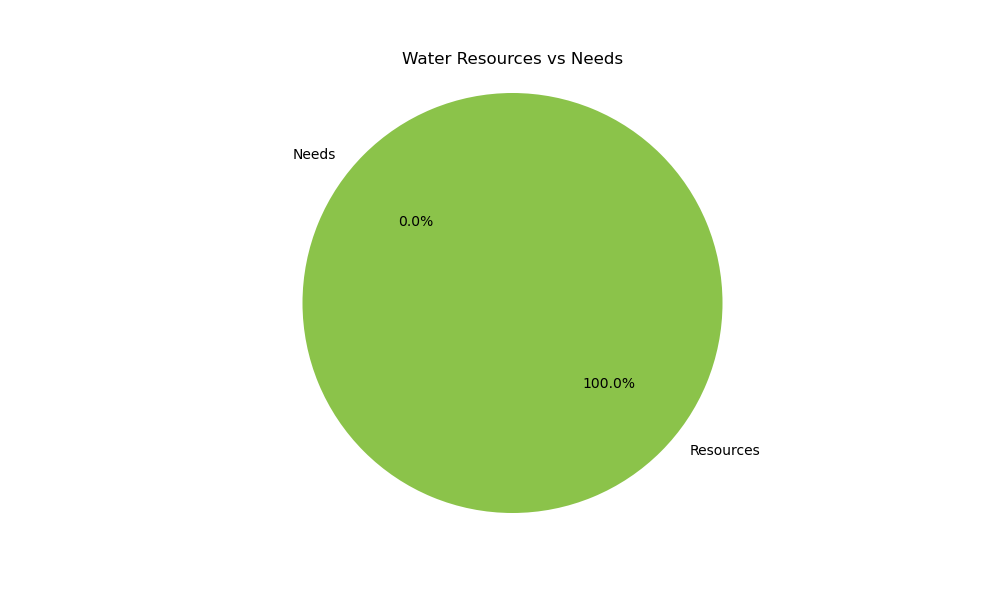
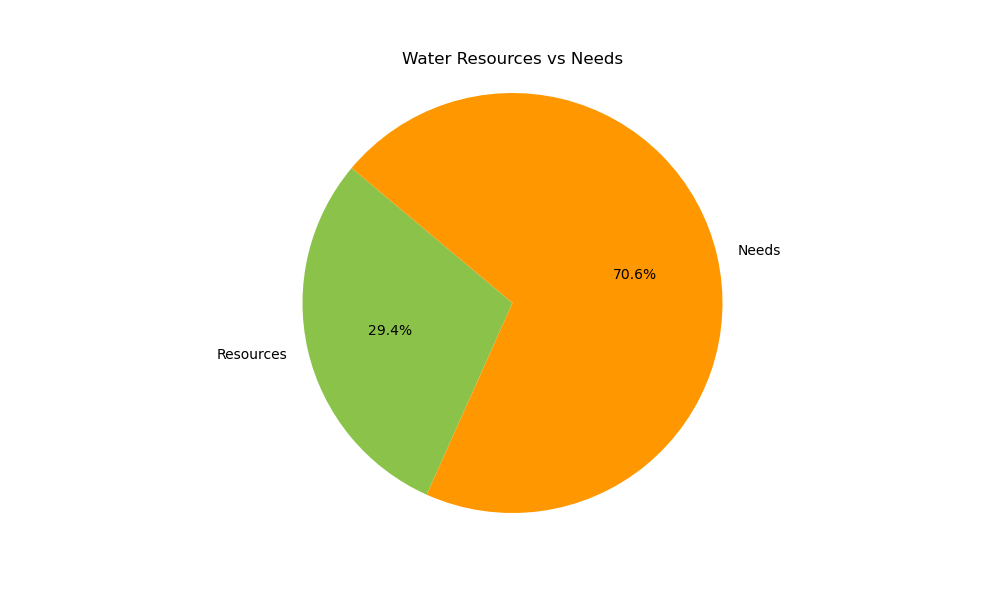
Corrections des bugs de liaison entre fichiers

Changed region(s): [[0.279, 0.15, 0.775, 0.87], [0.217, 0.57, 0.279, 0.6], [0.372, 0.54, 0.403, 0.57]]

diff --git a/input_form.py b/input_form.py
@@ -14,9 +14,7 @@ class InputForm(QtWidgets.QWidget):
         self.initUI()
 
     def initUI(self):
-        
-        
-        
+
         # Lier la feuille de style CSS
         self.setStyleSheet(open("styles.css").read())
 
@@ -25,199 +23,194 @@ class InputForm(QtWidgets.QWidget):
         scroll_content = QtWidgets.QWidget()
         scroll_layout = QtWidgets.QVBoxLayout(scroll_content)
 
-
-
         # Thème: Paramètres habitation
         self.habitat_section = QtWidgets.QGroupBox("Paramètres habitation")
         self.habitat_layout = QtWidgets.QVBoxLayout()
-        self.habitat_layout.setSpacing(5)        
+        self.habitat_layout.setSpacing(5)
 
-        
-        self.nb_habitat = QtWidgets.QSpinBox()
-        self.nb_habitat.setRange(0, 2147483647)
-        self.nb_habitat.setValue(0)
+        self.nb_habitants = QtWidgets.QSpinBox()
+        self.nb_habitants.setRange(0, 2147483647)
+        self.nb_habitants.setValue(0)
         self.habitat_layout.addWidget(QtWidgets.QLabel("Nombre d'habitant :"))
-        self.habitat_layout.addWidget(self.nb_habitat)
-        
+        self.habitat_layout.addWidget(self.nb_habitants)
+
+        self.surf_toit = QtWidgets.QSpinBox()
+        self.surf_toit.setRange(0, 2147483647)
+        self.surf_toit.setValue(0)
+        self.habitat_layout.addWidget(QtWidgets.QLabel("Surface de toit :"))
+        self.habitat_layout.addWidget(self.surf_toit)
+
+        self.nb_toilettes = QtWidgets.QSpinBox()
+        self.nb_toilettes.setRange(0, 2147483647)
+        self.nb_toilettes.setValue(0)
+        self.habitat_layout.addWidget(QtWidgets.QLabel("Nombre de toilettes :"))
+        self.habitat_layout.addWidget(self.nb_toilettes)
+
+        self.location = QtWidgets.QComboBox()
+        self.habitat_layout.addWidget(QtWidgets.QLabel("Implantation géographique:"))
+        self.habitat_layout.addWidget(self.location)
+        self.fill_city_dropdown()
+
         self.conso_hab = QtWidgets.QSpinBox()
-        self.conso_hab.setRange(0,2147483647)
+        self.conso_hab.setRange(0, 2147483647)
         self.conso_hab.setValue(120)
         self.habitat_layout.addWidget(QtWidgets.QLabel("Consommation en eau potable par habitant (L/jour) :"))
         self.habitat_layout.addWidget(self.conso_hab)
-
 
         self.habitat_section.setLayout(self.habitat_layout)
         scroll_layout.addWidget(self.habitat_section)
         scroll_layout.addSpacing(20)
 
-
-
-
-
         # Thème: Répartition consommation
         self.conso_section = QtWidgets.QGroupBox("Répartition de la consommation en eau des habitants")
         self.conso_layout = QtWidgets.QVBoxLayout()
         self.conso_layout.setSpacing(5)
-        
-        
+
         self.conso_hyg = QtWidgets.QSpinBox()
-        self.conso_hyg.setRange(0,2147483647)
+        self.conso_hyg.setRange(0, 2147483647)
         self.conso_hyg.setValue(40)
         self.conso_layout.addWidget(QtWidgets.QLabel("Hygiène (%) :"))
         self.conso_layout.addWidget(self.conso_hyg)
-        
+
         self.conso_vet = QtWidgets.QSpinBox()
-        self.conso_vet.setRange(0,2147483647)
+        self.conso_vet.setRange(0, 2147483647)
         self.conso_vet.setValue(15)
         self.conso_layout.addWidget(QtWidgets.QLabel("Lavage de vêtements (%) :"))
         self.conso_layout.addWidget(self.conso_vet)
-        
+
         self.conso_exc = QtWidgets.QSpinBox()
-        self.conso_exc.setRange(0,2147483647)
+        self.conso_exc.setRange(0, 2147483647)
         self.conso_exc.setValue(20)
         self.conso_layout.addWidget(QtWidgets.QLabel("Évacuation des excrétats (%) :"))
         self.conso_layout.addWidget(self.conso_exc)
-        
+
         self.conso_alim = QtWidgets.QSpinBox()
-        self.conso_alim.setRange(0,2147483647)
+        self.conso_alim.setRange(0, 2147483647)
         self.conso_alim.setValue(10)
         self.conso_layout.addWidget(QtWidgets.QLabel("Alimentation (%) :"))
         self.conso_layout.addWidget(self.conso_alim)
-        
+
         self.conso_vai = QtWidgets.QSpinBox()
-        self.conso_vai.setRange(0,2147483647)
+        self.conso_vai.setRange(0, 2147483647)
         self.conso_vai.setValue(5)
         self.conso_layout.addWidget(QtWidgets.QLabel("Lavage de la vaisselle (%) :"))
         self.conso_layout.addWidget(self.conso_vai)
-        
+
         self.conso_net = QtWidgets.QSpinBox()
-        self.conso_net.setRange(0,2147483647)
+        self.conso_net.setRange(0, 2147483647)
         self.conso_net.setValue(10)
         self.conso_layout.addWidget(QtWidgets.QLabel("Nettoyage et autres usages (%) :"))
         self.conso_layout.addWidget(self.conso_net)
-        
-        
+
         self.conso_section.setLayout(self.conso_layout)
         scroll_layout.addWidget(self.conso_section)
         scroll_layout.addSpacing(20)
 
-
-
-
-
         # Thème: Paramètres travail
         self.travail_section = QtWidgets.QGroupBox("Paramètres travail")
         self.travail_layout = QtWidgets.QVBoxLayout()
-        self.travail_layout.setSpacing(5)        
-        
+        self.travail_layout.setSpacing(5)
+
         self.nb_travail = QtWidgets.QSpinBox()
         self.nb_travail.setRange(0, 2147483647)
         self.nb_travail.setValue(0)
         self.travail_layout.addWidget(QtWidgets.QLabel("Nombre de travailleurs :"))
         self.travail_layout.addWidget(self.nb_travail)
-        
+
         self.conso_travail = QtWidgets.QSpinBox()
         self.conso_travail.setRange(0, 2147483647)
         self.conso_travail.setValue(47)
         self.travail_layout.addWidget(QtWidgets.QLabel("Consommation en eau potable par travailleur (L/jour) :"))
         self.travail_layout.addWidget(self.conso_travail)
-        
+
         self.travail_section.setLayout(self.travail_layout)
         scroll_layout.addWidget(self.travail_section)
         scroll_layout.addSpacing(20)
-        
+
         # Thème: Répartition consommation
         self.conso_section = QtWidgets.QGroupBox("Répartition de la consommation en eau des travailleurs :")
         self.conso_layout = QtWidgets.QVBoxLayout()
         self.conso_layout.setSpacing(5)
-        
+
         self.conso_hyg_travail = QtWidgets.QSpinBox()
         self.conso_hyg_travail.setRange(0, 2147483647)
         self.conso_hyg_travail.setValue(30)
         self.conso_layout.addWidget(QtWidgets.QLabel("Hygiène (%) :"))
         self.conso_layout.addWidget(self.conso_hyg_travail)
-        
+
         self.conso_exc_travail = QtWidgets.QSpinBox()
         self.conso_exc_travail.setRange(0, 2147483647)
         self.conso_exc_travail.setValue(30)
         self.conso_layout.addWidget(QtWidgets.QLabel("Évacuation des excrétats (%) :"))
         self.conso_layout.addWidget(self.conso_exc_travail)
-        
+
         self.conso_alim_travail = QtWidgets.QSpinBox()
         self.conso_alim_travail.setRange(0, 2147483647)
         self.conso_alim_travail.setValue(10)
         self.conso_layout.addWidget(QtWidgets.QLabel("Consommation directe (%) :"))
         self.conso_layout.addWidget(self.conso_alim_travail)
-        
+
         self.conso_net_travail = QtWidgets.QSpinBox()
         self.conso_net_travail.setRange(0, 2147483647)
         self.conso_net_travail.setValue(30)
         self.conso_layout.addWidget(QtWidgets.QLabel("Nettoyage des locaux, des équipements et autres usages (%) :"))
         self.conso_layout.addWidget(self.conso_net_travail)
-        
+
         self.conso_section.setLayout(self.conso_layout)
         scroll_layout.addWidget(self.conso_section)
         scroll_layout.addSpacing(20)
-
-
 
         # Utilisations voulues
         self.ut_section = QtWidgets.QGroupBox("Utilisations voulues")
         self.ut_layout = QtWidgets.QVBoxLayout()
         self.ut_layout.setSpacing(5)
 
-
-
         self.surf_net = QtWidgets.QSpinBox()
-        self.surf_net.setRange(0,2147483647)
+        self.surf_net.setRange(0, 2147483647)
         self.surf_net.setValue(0)
         self.ut_layout.addWidget(QtWidgets.QLabel("Surface à nettoyer (m²) :"))
         self.ut_layout.addWidget(self.surf_net)
-        
+
         self.surf_veg = QtWidgets.QSpinBox()
-        self.surf_veg.setRange(0,2147483647)
+        self.surf_veg.setRange(0, 2147483647)
         self.surf_veg.setValue(0)
         self.ut_layout.addWidget(QtWidgets.QLabel("Surface végétalisée à arroser (m²) :"))
         self.ut_layout.addWidget(self.surf_veg)
 
-
         self.exc = QtWidgets.QCheckBox("Évacuation des excrétats :")
         self.ut_layout.addSpacing(10)
         self.ut_layout.addWidget(self.exc)
-        
+
         self.font = QtWidgets.QCheckBox("Alimentation des fontaines :")
         self.ut_layout.addSpacing(10)
         self.ut_layout.addWidget(self.font)
-        
-        
+
         self.pisc = QtWidgets.QSpinBox()
-        self.pisc.setRange(0,2147483647)
+        self.pisc.setRange(0, 2147483647)
         self.pisc.setValue(0)
         self.ut_layout.addWidget(QtWidgets.QLabel("Volume total des piscines (L) :"))
         self.ut_layout.addWidget(self.pisc)
-        
-    
+
         self.ut_section.setLayout(self.ut_layout)
         scroll_layout.addWidget(self.ut_section)
-        
-        
+
         # Thème: Paramètres pluie
         self.pluie_section = QtWidgets.QGroupBox("Paramètres pluie")
         self.pluie_layout = QtWidgets.QVBoxLayout()
-        self.pluie_layout.setSpacing(5)        
-        
+        self.pluie_layout.setSpacing(5)
+
         self.precip = QtWidgets.QSpinBox()
         self.precip.setRange(0, 2147483647)
         self.precip.setValue(700)
         self.pluie_layout.addWidget(QtWidgets.QLabel("Précipitations (mm/an) :"))
         self.pluie_layout.addWidget(self.precip)
-        
+
         self.surfpl = QtWidgets.QSpinBox()
         self.surfpl.setRange(0, 2147483647)
         self.surfpl.setValue(0)
         self.pluie_layout.addWidget(QtWidgets.QLabel("Surface de récupération de l'eau de pluie (m²) :"))
         self.pluie_layout.addWidget(self.surfpl)
-        
+
         self.pluie_section.setLayout(self.pluie_layout)
         scroll_layout.addWidget(self.pluie_section)
         scroll_layout.addSpacing(20)
@@ -225,19 +218,28 @@ class InputForm(QtWidgets.QWidget):
         self.calculate_button = QtWidgets.QPushButton("Calculer")
         scroll_layout.addWidget(self.calculate_button)
         scroll_area.setWidget(scroll_content)
-        
-        
+
         layout = QtWidgets.QVBoxLayout(self)
         layout.addWidget(scroll_area)
         self.setLayout(layout)
-        
-        
 
+    def fill_city_dropdown(self):
+        db = QtSql.QSqlDatabase.addDatabase('QSQLITE')
+        db.setDatabaseName('pluviometrie.db')
+        if db.open():
+            query = QtSql.QSqlQuery("SELECT Ville FROM Prec_Anuelles")
+            while query.next():
+                self.location.addItem(query.value(0))
+        else:
+            print("Erreur lors de la connexion à la base de données.")
+            db.close()
 
-    
     def get_input_data(self):
         return {
-            "nb_habitat": self.nb_habitat.value(),
+            "num_toilets": self.nb_toilettes.value(),
+            "location": self.location.currentText(),
+            "roof_area": self.surf_toit.value(),
+            "nb_habitants": self.nb_habitants.value(),
             "conso_hab": self.conso_hab.value(),
             "conso_hyg": self.conso_hyg.value(),
             "conso_vet": self.conso_vet.value(),
@@ -253,6 +255,6 @@ class InputForm(QtWidgets.QWidget):
             "conso_net_travail": self.conso_net_travail.value(),
             "surf_net": self.surf_net.value(),
             "surf_veg": self.surf_veg.value(),
-            "exc": self.exc.isChecked(), 
+            "exc": self.exc.isChecked(),
             "font": self.font.isChecked(),
         }

diff --git a/calculation.py b/calculation.py
@@ -46,7 +46,7 @@ def calculate_resources(input_data):
         Données traitables. Exple : la quantité d'eau de douche dispo (plutôt que le nombre de douches qui ne sert 'à rien').
 
     """
-    roof_area, num_residents, daily_shower_usage, location, is_garden = input_data['roof_area'], input_data['num_residents'], input_data['daily_shower_usage'], input_data['location'], input_data['garden']
+    roof_area, num_residents, conso_hyg, location, is_garden = input_data['roof_area'], input_data['nb_habitants'], input_data['conso_hyg'], input_data['location'], input_data['surf_veg'] > 0
 
     # Définition de la quantité de pluie en allant chercher dans la base de données
     query = QtSql.QSqlQuery()
@@ -61,8 +61,9 @@ def calculate_resources(input_data):
 
     # Calcul des ressources en fonction des variables récupérées
     # TODO mais plus tard c'est pas pressant : laisser la possibilité à l'utilisateur de modifier les constantes
+    # TODO mais plus tard : définir des constantes types daily_shower_usage, éventuellement fonction du pourcentage d'hygiène, etc.
     roof_water = roof_area * rainfall * 0.8 / 1000  # L'eau de pluie récupérée en litres
-    shower_water = num_residents * daily_shower_usage * 365  # L'eau de douche récupérée en litres
+    shower_water = num_residents * conso_hyg*100 * 50 * 365  # Exemple de calcul, par exemple 100% d'hygiène correspond à une douche par jour de 50L d'eau
     gray_water_available = shower_water > 0
 
     # ATTENTION : le nom des clés du dico doit être harmonisé avec le nom des conditions des solutions existantes (cf fonction de tri des solutions)
@@ -90,7 +91,8 @@ def calculate_needs(input_data):
         Données traitables. Exple : l'eau qu'il faut pour arroser le jardin (plutôt que sa surface qui ne sert 'à rien')..
 
     """
-    num_toilets, num_residents, daily_toilet_usage, garden, daily_garden_watering = input_data['num_toilets'], input_data['num_residents'], input_data['daily_toilet_usage'], input_data['garden'], input_data['daily_garden_watering']
+    daily_garden_watering, daily_toilet_usage = 3, input_data["conso_hyg"]*100*15  # Exemple
+    num_toilets, num_residents, garden = input_data['num_toilets'], input_data['nb_habitants'], input_data['surf_veg'] > 0
 
     # TODO mais plus tard il y a le tps : pouvoir modifier les constantes multipicatives
     toilet_water = num_toilets * num_residents * daily_toilet_usage * 365  # L'eau pour les toilettes en litres
